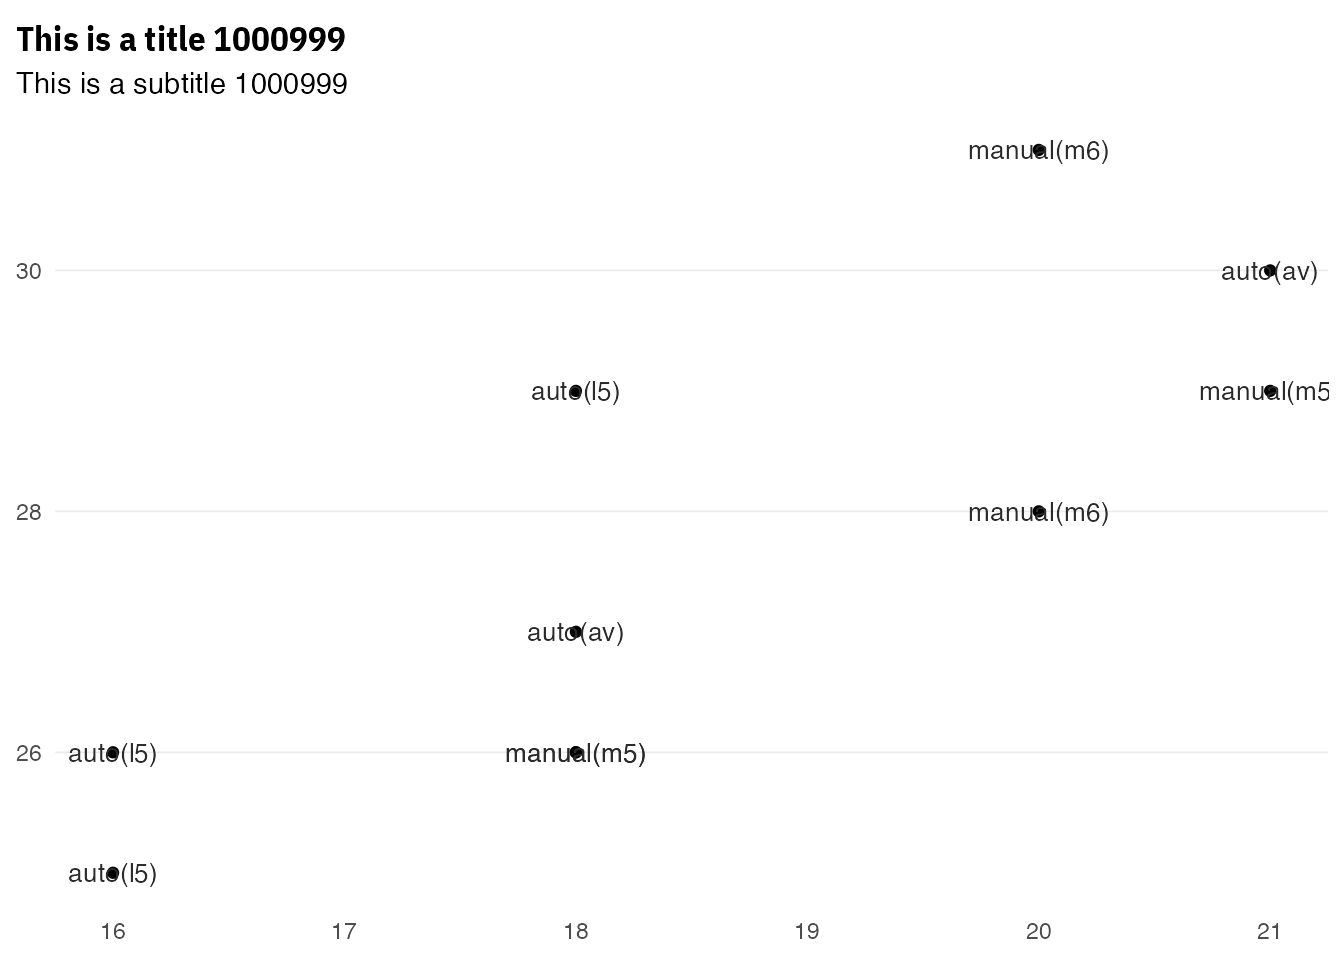
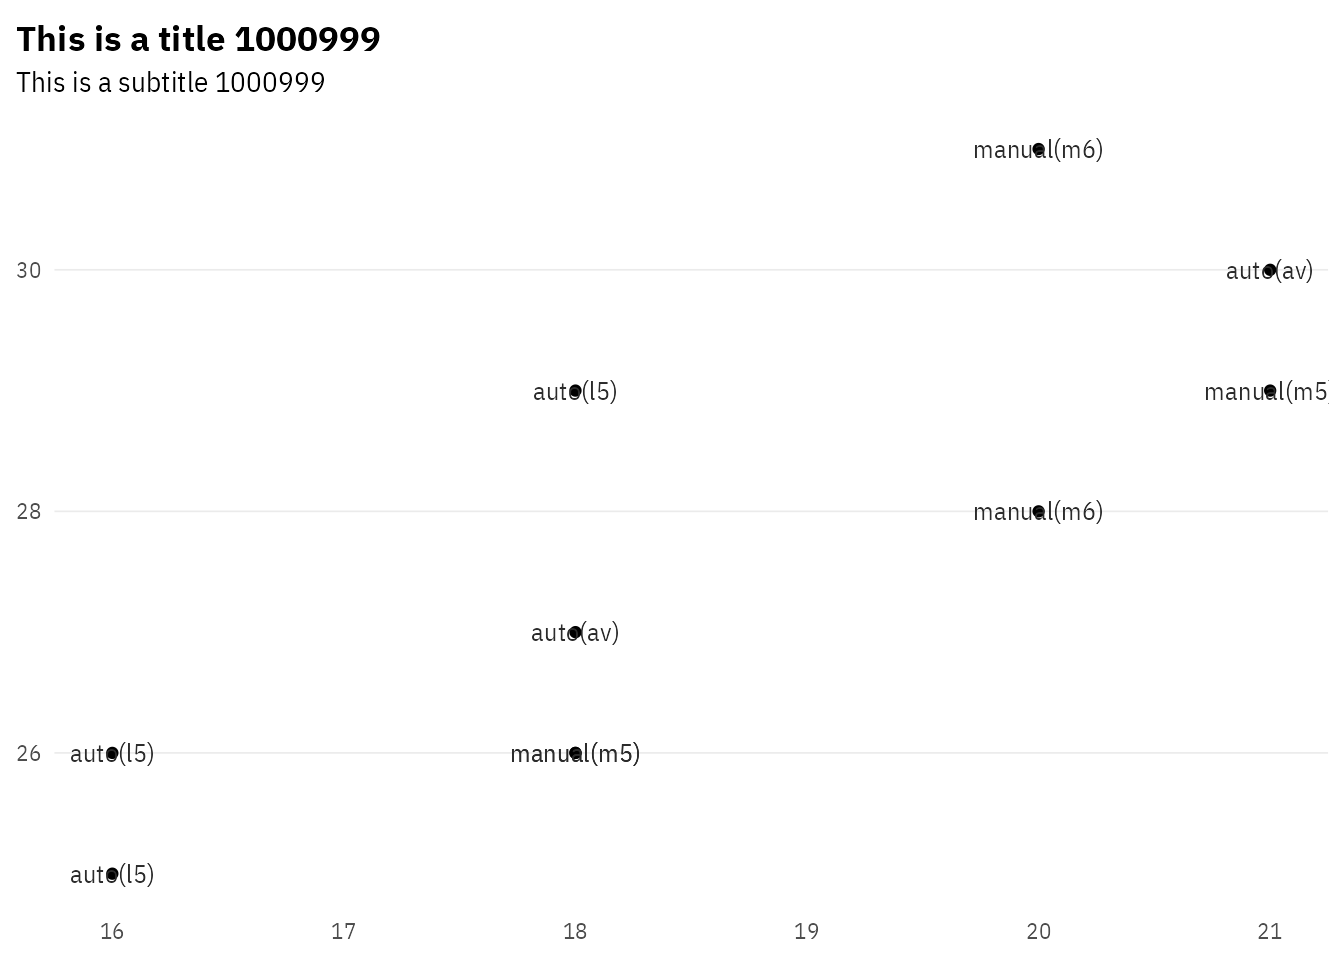
deploy: 153b6a75ac2447388716ed0cf569a6a49732fe04

diff --git a/index.html b/index.html
@@ -319,7 +319,7 @@ $(document).ready(function () {
 ##                                                                                             version 
 ## &quot;Darwin Kernel Version 19.6.0: Tue Jan 12 22:13:05 PST 2021; root:xnu-6153.141.16~1/RELEASE_X86_64&quot; 
 ##                                                                                            nodename 
-##                                                                           &quot;Mac-1613945693635.local&quot; 
+##                                                                           &quot;Mac-1613945850508.local&quot; 
 ##                                                                                             machine 
 ##                                                                                            &quot;x86_64&quot; 
 ##                                                                                               login 
@@ -352,7 +352,7 @@ ptrr::register_plexsans_condensed()</code></pre>
 <pre class="r"><code>systemfonts::registry_fonts()</code></pre>
 <div data-pagedtable="false">
 <script data-pagedtable-source type="application/json">
-{"columns":[{"label":["path"],"name":[1],"type":["chr"],"align":["left"]},{"label":["index"],"name":[2],"type":["int"],"align":["right"]},{"label":["family"],"name":[3],"type":["chr"],"align":["left"]},{"label":["style"],"name":[4],"type":["chr"],"align":["left"]},{"label":["weight"],"name":[5],"type":["ord"],"align":["right"]},{"label":["italic"],"name":[6],"type":["lgl"],"align":["right"]},{"label":["features"],"name":[7],"type":["list"],"align":["right"]}],"data":[{"1":"/Users/runner/Library/Application Support/renv/cache/v5/R-4.0/x86_64-apple-darwin17.0/ptrr/0.2.0.9000/4ba2132af838b36f06866a4adf4e3be5/ptrr/fonts/plex/IBMPlexSansCondensed-Regular.ttf","2":"0","3":"IBM Plex Sans","4":"Regular","5":"normal","6":"FALSE","7":"<NULL>"},{"1":"/Users/runner/Library/Application Support/renv/cache/v5/R-4.0/x86_64-apple-darwin17.0/ptrr/0.2.0.9000/4ba2132af838b36f06866a4adf4e3be5/ptrr/fonts/plex/IBMPlexSansCondensed-Bold.ttf","2":"0","3":"IBM Plex Sans","4":"Bold","5":"bold","6":"FALSE","7":"<NULL>"},{"1":"/Users/runner/Library/Application Support/renv/cache/v5/R-4.0/x86_64-apple-darwin17.0/ptrr/0.2.0.9000/4ba2132af838b36f06866a4adf4e3be5/ptrr/fonts/plex/IBMPlexSansCondensed-Italic.ttf","2":"0","3":"IBM Plex Sans","4":"Italic","5":"normal","6":"TRUE","7":"<NULL>"},{"1":"/Users/runner/Library/Application Support/renv/cache/v5/R-4.0/x86_64-apple-darwin17.0/ptrr/0.2.0.9000/4ba2132af838b36f06866a4adf4e3be5/ptrr/fonts/plex/IBMPlexSansCondensed-BoldItalic.ttf","2":"0","3":"IBM Plex Sans","4":"Bold Italic","5":"bold","6":"TRUE","7":"<NULL>"}],"options":{"columns":{"min":{},"max":[10]},"rows":{"min":[10],"max":[10]},"pages":{}}}
+{"columns":[{"label":["path"],"name":[1],"type":["chr"],"align":["left"]},{"label":["index"],"name":[2],"type":["int"],"align":["right"]},{"label":["family"],"name":[3],"type":["chr"],"align":["left"]},{"label":["style"],"name":[4],"type":["chr"],"align":["left"]},{"label":["weight"],"name":[5],"type":["ord"],"align":["right"]},{"label":["italic"],"name":[6],"type":["lgl"],"align":["right"]},{"label":["features"],"name":[7],"type":["list"],"align":["right"]}],"data":[{"1":"/Users/runner/Library/Application Support/renv/cache/v5/R-4.0/x86_64-apple-darwin17.0/ptrr/0.2.0.9000/9e0eec7d810960ee3ca60cf8ccd91b30/ptrr/fonts/plex/IBMPlexSansCondensed-Regular.ttf","2":"0","3":"IBM Plex Sans Condensed","4":"Regular","5":"normal","6":"FALSE","7":"<NULL>"},{"1":"/Users/runner/Library/Application Support/renv/cache/v5/R-4.0/x86_64-apple-darwin17.0/ptrr/0.2.0.9000/9e0eec7d810960ee3ca60cf8ccd91b30/ptrr/fonts/plex/IBMPlexSansCondensed-Bold.ttf","2":"0","3":"IBM Plex Sans Condensed","4":"Bold","5":"bold","6":"FALSE","7":"<NULL>"},{"1":"/Users/runner/Library/Application Support/renv/cache/v5/R-4.0/x86_64-apple-darwin17.0/ptrr/0.2.0.9000/9e0eec7d810960ee3ca60cf8ccd91b30/ptrr/fonts/plex/IBMPlexSansCondensed-Italic.ttf","2":"0","3":"IBM Plex Sans Condensed","4":"Italic","5":"normal","6":"TRUE","7":"<NULL>"},{"1":"/Users/runner/Library/Application Support/renv/cache/v5/R-4.0/x86_64-apple-darwin17.0/ptrr/0.2.0.9000/9e0eec7d810960ee3ca60cf8ccd91b30/ptrr/fonts/plex/IBMPlexSansCondensed-BoldItalic.ttf","2":"0","3":"IBM Plex Sans Condensed","4":"Bold Italic","5":"bold","6":"TRUE","7":"<NULL>"},{"1":"/Users/runner/Library/Application Support/renv/cache/v5/R-4.0/x86_64-apple-darwin17.0/ptrr/0.2.0.9000/9e0eec7d810960ee3ca60cf8ccd91b30/ptrr/fonts/plex/IBMPlexSans-Regular.ttf","2":"0","3":"IBM Plex Sans","4":"Regular","5":"normal","6":"FALSE","7":"<NULL>"},{"1":"/Users/runner/Library/Application Support/renv/cache/v5/R-4.0/x86_64-apple-darwin17.0/ptrr/0.2.0.9000/9e0eec7d810960ee3ca60cf8ccd91b30/ptrr/fonts/plex/IBMPlexSans-Bold.ttf","2":"0","3":"IBM Plex Sans","4":"Bold","5":"bold","6":"FALSE","7":"<NULL>"},{"1":"/Users/runner/Library/Application Support/renv/cache/v5/R-4.0/x86_64-apple-darwin17.0/ptrr/0.2.0.9000/9e0eec7d810960ee3ca60cf8ccd91b30/ptrr/fonts/plex/IBMPlexSans-Italic.ttf","2":"0","3":"IBM Plex Sans","4":"Italic","5":"normal","6":"TRUE","7":"<NULL>"},{"1":"/Users/runner/Library/Application Support/renv/cache/v5/R-4.0/x86_64-apple-darwin17.0/ptrr/0.2.0.9000/9e0eec7d810960ee3ca60cf8ccd91b30/ptrr/fonts/plex/IBMPlexSans-BoldItalic.ttf","2":"0","3":"IBM Plex Sans","4":"Bold Italic","5":"bold","6":"TRUE","7":"<NULL>"}],"options":{"columns":{"min":{},"max":[10]},"rows":{"min":[10],"max":[10]},"pages":{}}}
   </script>
 </div>
 <pre class="r"><code>sfnts[grepl(&quot;([Pp]lex)|([Jj]et[Bb])&quot;, sfnts$family),c(&quot;family&quot;, &quot;style&quot;, &quot;italic&quot;, &quot;monospace&quot;)]</code></pre>
